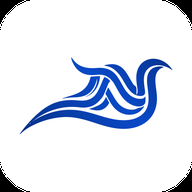
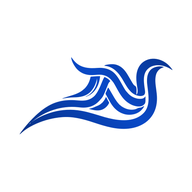
Icones installables sans angles noirs
Deux causes se cumulaient. `convert("RGB")` de Pillow jette le canal alpha et
remplace la transparence par du noir. Et l'arrondi etait cuit dans le fichier,
alors qu'Android, iOS et Windows appliquent chacun leur propre forme.

Les trois icones d'application sont desormais des carres pleins, aplatis sur le
blanc de la tuile. Seule la favicon garde ses coins arrondis, puisqu'un onglet
n'applique aucune forme, et son alpha est preserve.

diff --git a/scripts/generer-identite.py b/scripts/generer-identite.py
@@ -144,6 +144,19 @@ def tuile(corps: str, largeur: int, hauteur: int, cote: int, rayon: int, marge: 
     return fond
 
 
+def aplatir(image: Image.Image) -> Image.Image:
+    """
+    Aplatit sur la couleur de tuile, jamais sur du noir.
+
+    `convert("RGB")` jette le canal alpha sans rien demander et laisse le noir
+    apparaitre partout ou l'image etait transparente. C'est ce qui donnait des
+    coins noirs aux icones une fois le site installe.
+    """
+    fond = Image.new("RGBA", image.size, (*TUILE_FOND, 255))
+    fond.alpha_composite(image)
+    return fond.convert("RGB")
+
+
 def svg_tuile(corps: str, largeur: int, hauteur: int, rayon: float, marge: float) -> str:
     """Version vectorielle de la meme tuile, pour la favicon SVG."""
     cote = 512.0
@@ -191,24 +204,33 @@ def main() -> None:
         svg_tuile(corps, largeur, hauteur, rayon=104, marge=0.1), encoding="utf-8"
     )
 
-    # 3. Declinaisons matricielles.
-    base = tuile(corps, largeur, hauteur, 512, rayon=104, marge=0.1)
-    base.convert("RGB").save(PUBLIC / "icon-512.png", optimize=True)
-    base.resize((192, 192), Image.LANCZOS).convert("RGB").save(
+    # 3. Declinaisons matricielles, a coins droits.
+    #
+    # Une icone installee ne doit jamais porter son propre arrondi. Chaque
+    # systeme applique le sien : cercle ou goutte sur Android, carre arrondi
+    # sur iOS, tuile sur Windows. Un arrondi cuit dans le fichier ne s'aligne
+    # avec aucun d'eux, et le hors-arrondi virait au noir a l'aplatissement.
+    base = tuile(corps, largeur, hauteur, 512, rayon=0, marge=0.1)
+    aplatir(base).save(PUBLIC / "icon-512.png", optimize=True)
+    aplatir(base.resize((192, 192), Image.LANCZOS)).save(
         PUBLIC / "icon-192.png", optimize=True
     )
-    base.resize((180, 180), Image.LANCZOS).convert("RGB").save(
+    aplatir(base.resize((180, 180), Image.LANCZOS)).save(
         PUBLIC / "apple-touch-icon.png", optimize=True
     )
 
     # 4. Version maskable : zone de securite de 20 % exigee par Android,
-    #    donc coins droits et marque nettement rentree.
-    tuile(corps, largeur, hauteur, 512, rayon=0, marge=0.26).convert("RGB").save(
+    #    donc marque nettement plus rentree que sur la tuile ordinaire.
+    aplatir(tuile(corps, largeur, hauteur, 512, rayon=0, marge=0.26)).save(
         PUBLIC / "icon-maskable-512.png", optimize=True
     )
 
-    # 5. ICO multi-resolution pour la barre d'onglets et les vieux navigateurs.
-    tuile(corps, largeur, hauteur, 256, rayon=44, marge=0.08).convert("RGB").save(
+    # 5. ICO multi-resolution pour la barre d'onglets.
+    #
+    # Seul fichier qui garde son arrondi : un onglet n'applique aucune forme,
+    # c'est donc au fichier de la porter. L'alpha est conserve, sans quoi les
+    # coins redeviendraient noirs.
+    tuile(corps, largeur, hauteur, 256, rayon=44, marge=0.08).save(
         PUBLIC / "favicon.ico", format="ICO", sizes=[(16, 16), (32, 32), (48, 48), (64, 64)]
     )
 
